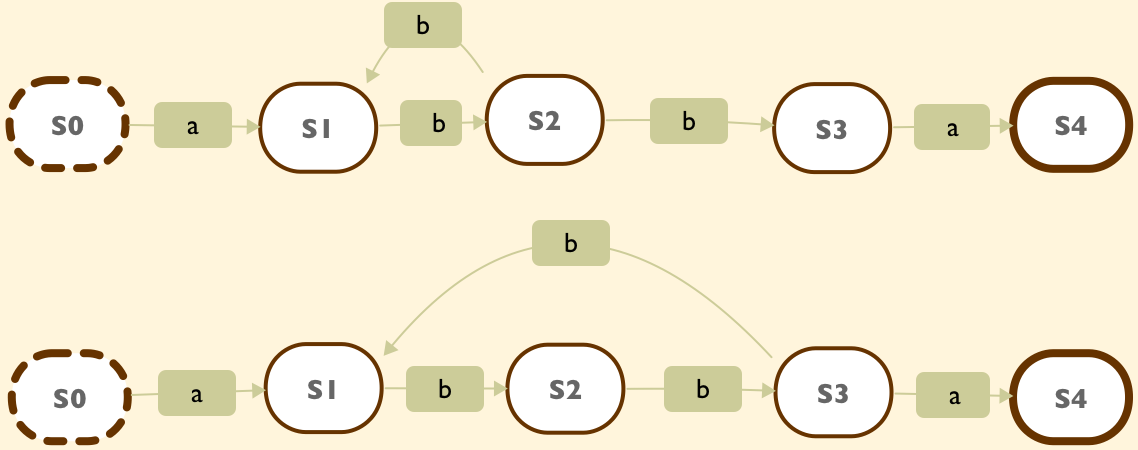
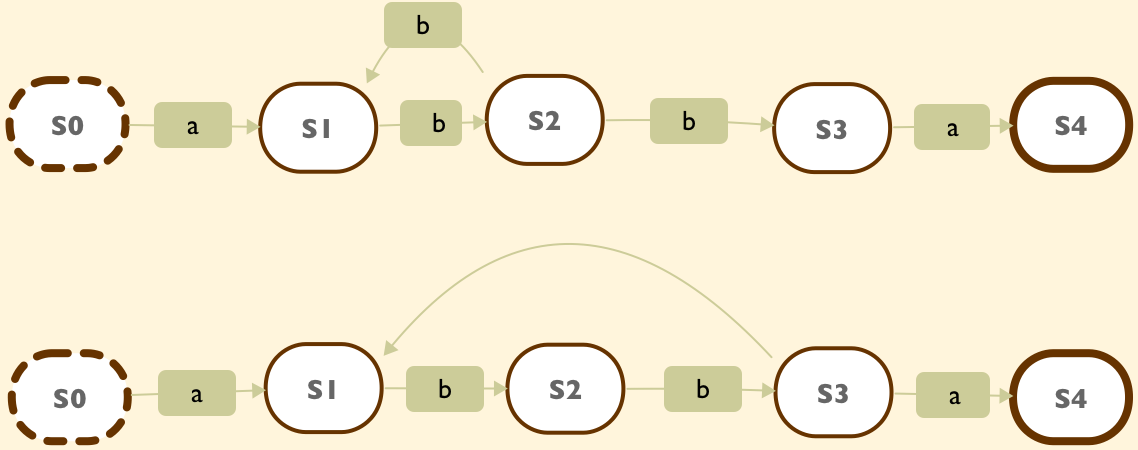
add regexp post.

Changed region(s): [[0.4613, 0.4667, 0.5536, 0.5911]]

diff --git a/source/_posts/master-regexp.md b/source/_posts/master-regexp.md
@@ -11,6 +11,8 @@ tags:
 
 # 1. 基础
 
+基础的东西就直接查看[MDN RegExp Doc](https://developer.mozilla.org/en-US/docs/Web/JavaScript/Guide/Regular_Expressions)吧。
+
 ## 1.1 反义
 
 |代码|说明|
@@ -21,7 +23,6 @@ tags:
 | `\B` |匹配不是单词开头或结束的位置|
 | `[^x]` |匹配除了x以外的任意字符|
 | `[^aeiou]` |匹配除了aeiou这几个字母以外的任意字符|
-
 
 ## 1.2 反向引用
 
@@ -40,6 +41,8 @@ tags:
 
 ## 1.3 正则匹配的原理
 
+正则就是基于这种有穷自动机的理论的，正则里的这种自动机叫做正则引擎。
+
 ### 1.3.1 有穷自动机
 
 有穷自动机一般满足下列4个条件：
@@ -49,17 +52,16 @@ tags:
 3. 有起始状态
 4. 有终止状态
 
-
-正则就是基于这种有穷自动机的理论的，举个例子，正则表达式 `a(bb)+a` 的状态转移图如下：
-<img src="" width=400>
+举个例子，正则表达式 `a(bb)+a` 的状态转移图如下：
+<img src="https://raw.githubusercontent.com/NoName4Me/blog/master/source/_posts/master-regexp/finite-states-example.png" width=480>
 
 下面是一个匹配字符串 `"abbbba"` 的分解步骤：
 
-<img src="" width=400>
+<img src="https://raw.githubusercontent.com/NoName4Me/blog/master/source/_posts/master-regexp/finite-states-example-steps.png" width=400>
 
-实际上下面两个有穷状态机和前面的是等价的，下面第1个图里在S1中的
+实际上下面两个有穷状态机和前面的是等价的，下面第 1 个图里在输入 `ab` 后，在状态 S2，如果继续输入 `b`，那么此时的状态就不确定了，可能在S1，也可能在 S3，而第 2 个图更神奇，在没有任何输入的情况，也会转移到 S1，所以这两个状态机叫做非确定型有穷自动机（NFA，Non-definite Finite Automata），最前面那个状态机是确定型有穷自动机（DFA），每一个状态到另一个状态都是确定的。
 
-<img src="" width=400>
+<img src="https://raw.githubusercontent.com/NoName4Me/blog/master/source/_posts/master-regexp/finite-states-nfa-example-steps.png" width=480>
 
 ## 1.3.2 匹配优先和忽略优先
 
@@ -94,3 +96,4 @@ ab 匹配 ab
 2. [ECMAScript regular expressions are getting better!](https://mathiasbynens.be/notes/es-regexp-proposals)
 3. [RegExp lookbehind assertions](https://v8project.blogspot.com/2016/02/regexp-lookbehind-assertions.html)
 4. 《正则指引》余晟
+5. https://stackoverflow.com/questions/2973436/regex-lookahead-lookbehind-and-atomic-groups
